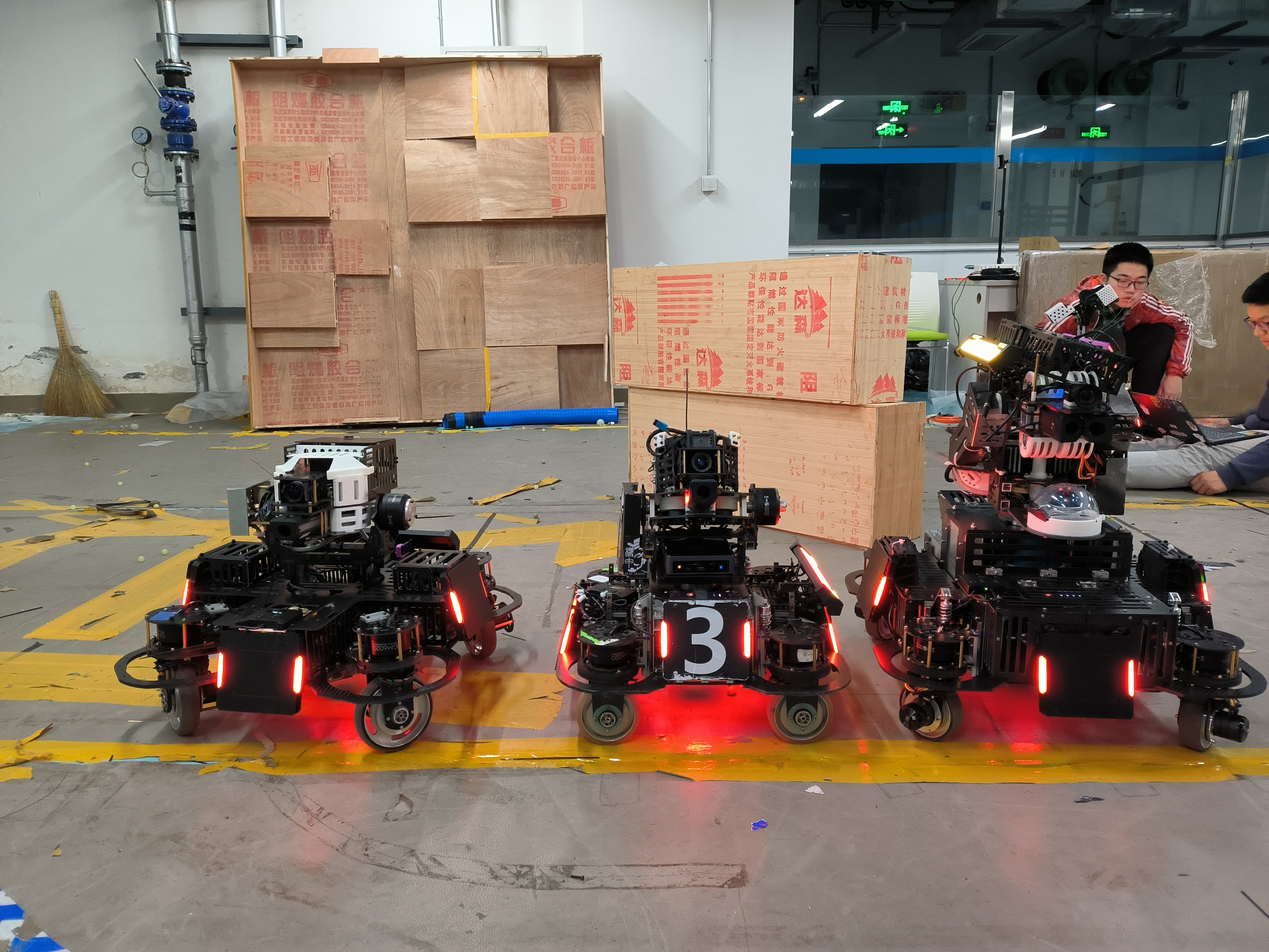
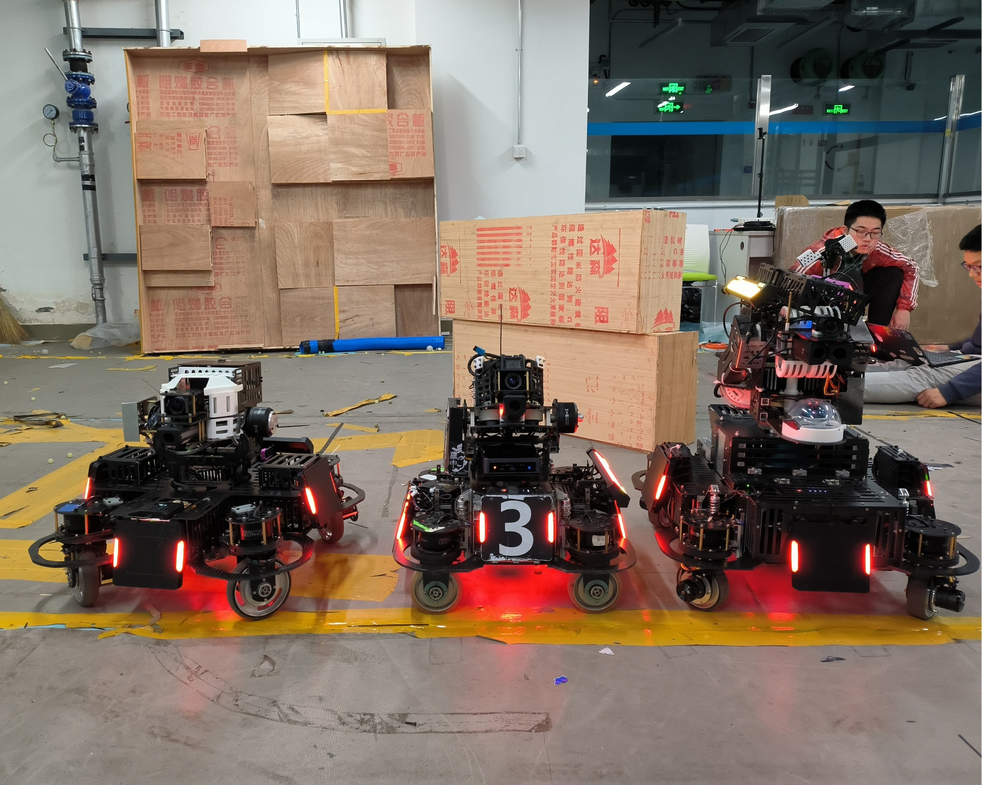
imgs_ok

diff --git a/docs/Favors/RoboMaster.md b/docs/Favors/RoboMaster.md
@@ -13,10 +13,10 @@ As part of the mechanical team, I designed the chassis for the Sentinel robot, f
 I designed the Infantry robot chassis, prioritizing speed, durability, and adaptability to various terrains, enhancing the team's competitive performance.
 
 <p align="center">
-  <img src="../assets/First_competitive_robot.jpg" width="48%" style="display: inline-block;">
   <img src="../assets/First_design.jpg" width="48%" style="display: inline-block;">
+  <img src="../assets/Robot_family.jpg" width="48%" style="display: inline-block;">
   <br>
-  <em style="display: inline-block; width: 48%;">My first mature competitive robot design, showcasing the team's first competitive robot.</em>
+  <em style="display: inline-block; width: 48%;">My innovative designs for the Infantry robot family, showcasing a blend of functionality and creativity.</em>
 </p>
 
 ### 2023: Team Captain
